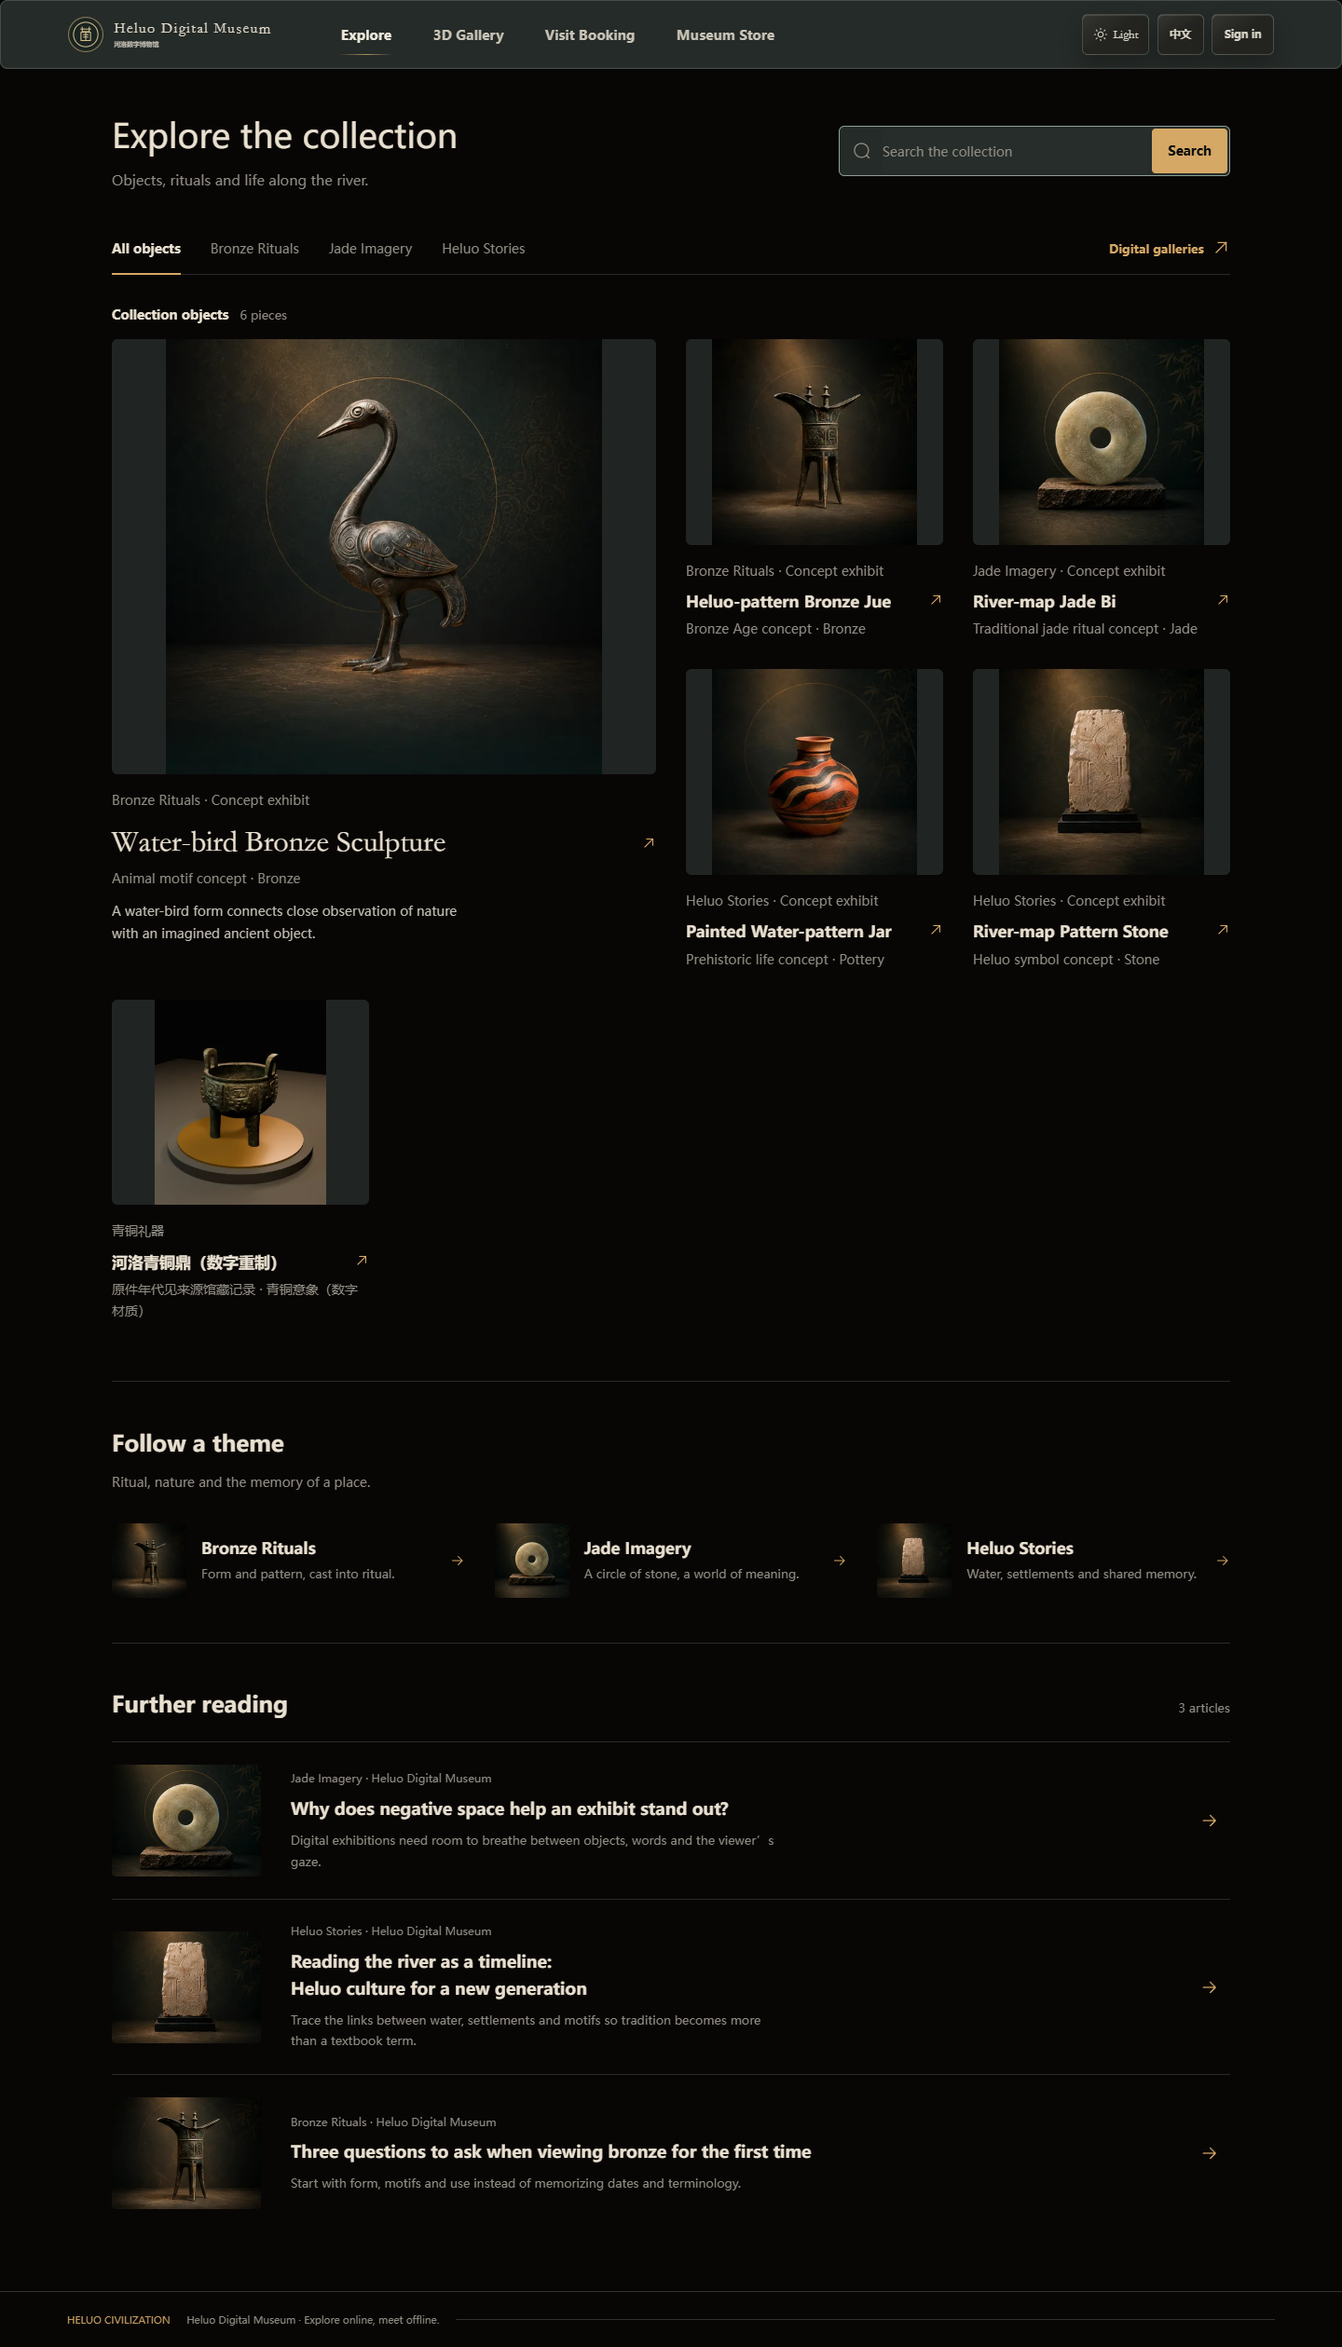
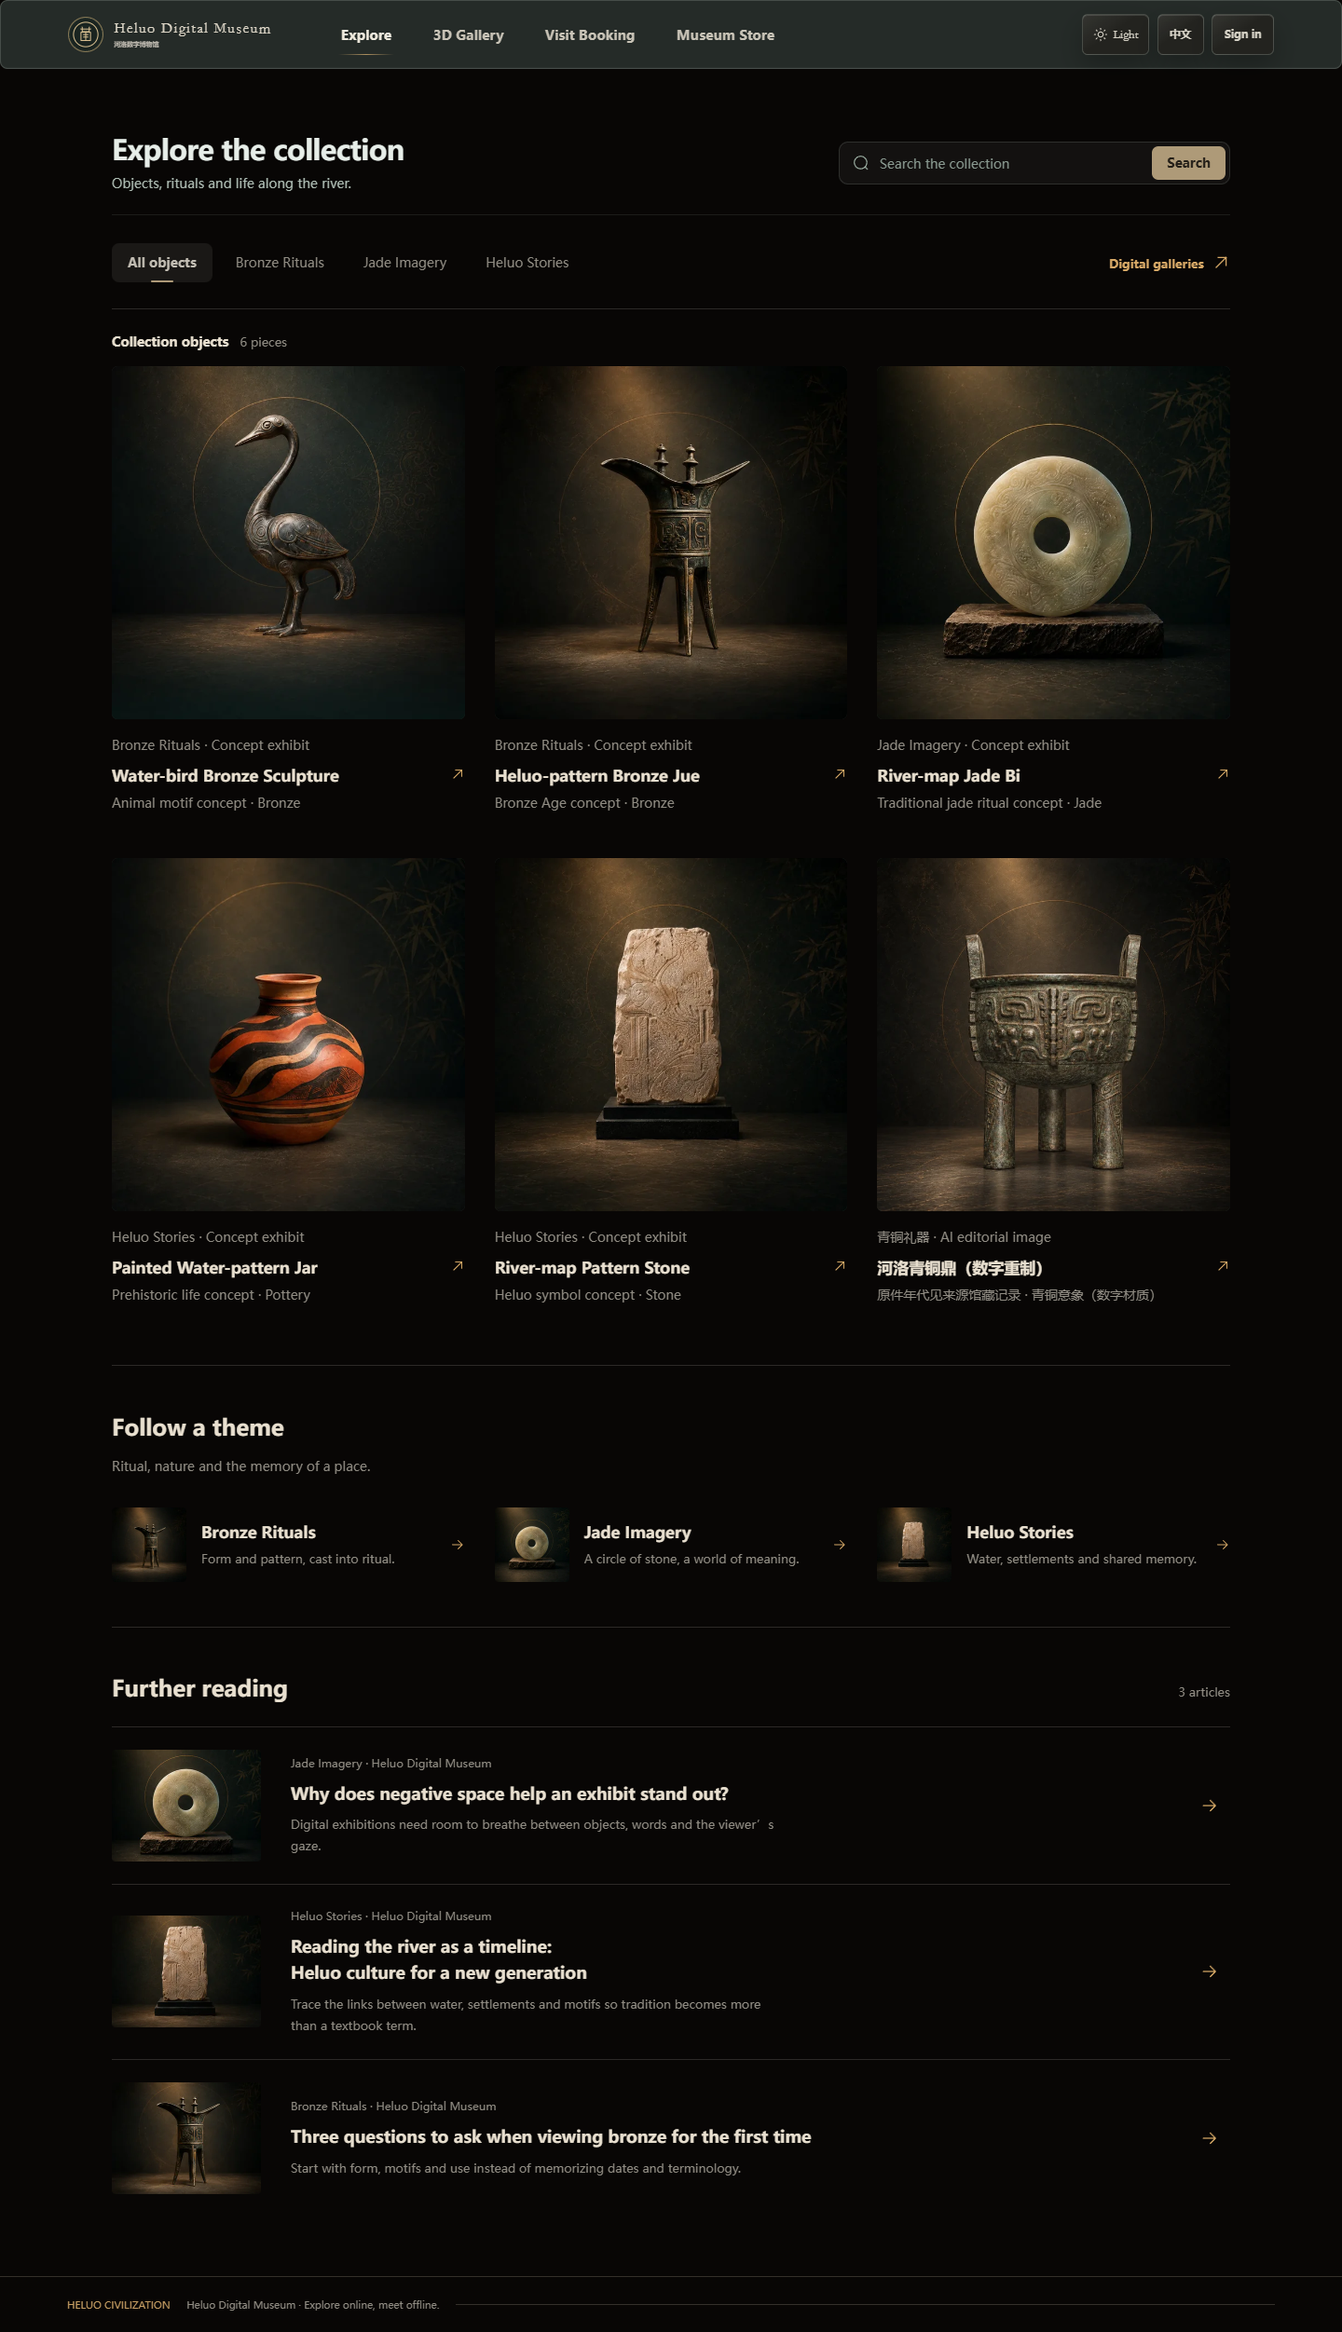
docs(showcase): refresh live dark theme and admin screenshots

diff --git a/README.md b/README.md
@@ -29,7 +29,13 @@
 
 ## 页面掠影
 
-以下为项目历史验收中保存的真实完整页面截图，覆盖主页、Explore 和 3D 展厅，非概念设计图，也非本次线上实时截图。统一采用 1440 像素桌面宽度，保留页面从顶部到末尾的内容；点击图片可查看原尺寸。线上内容可能随版本更新而变化。
+深色展馆中的暖金灯光，让器物成为视觉中心。以下图片于 **2026-09-27 从线上网站重新采集**，以深色与英文界面为主，保留中文浅色作为对照，并展示真实登录后的商城与后台工作台。采用 1440 / 1680 像素宽的完整桌面页面，已关闭平台反馈广告；点击图片查看原尺寸。[截图来源与采集说明](docs/showcase/SOURCES.md)。
+
+### One object, a living story · 英文深色首页
+
+[![英文深色首页完整页面：新版中央青铜鼎展廊、器物故事与策展入口](docs/showcase/home-dark-en.png)](docs/showcase/home-dark-en.png)
+
+### 同一座展馆，两种光线
 
 <table>
   <tr>
@@ -41,24 +47,59 @@
     <td width="50%"><a href="docs/showcase/home-dark-zh.png"><img src="docs/showcase/home-dark-zh.png" alt="中文深色首页完整页面：深色展馆、器物介绍与主题入口" /></a></td>
   </tr>
   <tr>
-    <td width="50%" align="center"><strong>首页 · 英文深色</strong></td>
-    <td width="50%" align="center"><strong>Explore · 英文深色</strong></td>
-  </tr>
-  <tr>
-    <td width="50%"><a href="docs/showcase/home-dark-en.png"><img src="docs/showcase/home-dark-en.png" alt="英文深色首页完整页面" /></a></td>
-    <td width="50%"><a href="docs/showcase/explore-dark-en.png"><img src="docs/showcase/explore-dark-en.png" alt="Explore 双语藏品浏览页" /></a></td>
-  </tr>
-  <tr>
-    <td align="center"><sub>主页 · One object, a living story</sub></td>
-    <td align="center"><sub>Explore · Search the collection</sub></td>
-  </tr>
-  <tr>
-    <td colspan="2"><a href="docs/showcase/digital-exhibit.png"><img src="docs/showcase/digital-exhibit.png" alt="河洛数字博物馆 3D 数字展厅" /></a></td>
-  </tr>
-  <tr>
-    <td colspan="2" align="center"><sub>3D Gallery · 旋转、缩放与多视角观察青铜器数字模型</sub></td>
+    <td colspan="2" align="center"><sub>中文浅色与深色 · 从顶部展廊到页尾的完整对照</sub></td>
   </tr>
 </table>
+
+### Explore · 英文深色馆藏
+
+从六件器物，到主题线索与延伸阅读，让浏览形成一条自然的发现路径。部分尚无译文的内容保留中文回退。
+
+[![英文深色 Explore 完整页面：馆藏、主题与延伸阅读](docs/showcase/explore-dark-en.png)](docs/showcase/explore-dark-en.png)
+
+### Museum Store · 英文深色文创商城
+
+把器物纹样带进日常：茶具、织物与文具，在统一的深色界面中呈现。
+
+[![英文深色文创商城完整页面：登录后的商品、购物袋与模拟结算](docs/showcase/shop-dark-en.png)](docs/showcase/shop-dark-en.png)
+
+### 3D Gallery · 让器物来到眼前
+
+真实加载的青铜鼎模型，配合多视角控件、器物来源与展项说明，呈现从浏览到近观的体验。
+
+[![英文深色 3D 展厅：已加载实体模型与完整控制面板](docs/showcase/digital-exhibit-dark-en.png)](docs/showcase/digital-exhibit-dark-en.png)
+
+<details>
+<summary>展开查看：英文深色展厅入口与预约完整页面</summary>
+
+[![英文深色数字展厅入口](docs/showcase/gallery-dark-en.png)](docs/showcase/gallery-dark-en.png)
+
+[![英文深色预约参观完整页面](docs/showcase/booking-dark-en.png)](docs/showcase/booking-dark-en.png)
+
+</details>
+
+### Behind the scenes · 后台管理工作台
+
+前台负责讲故事，后台负责让内容持续更新。以下为管理员登录后的线上实页，展示内容编辑、发布状态、商品库存与 3D 展项管理。后台当前以中文为主。
+
+<table>
+  <tr><td width="50%" align="center"><strong>内容管理 · 深色</strong></td><td width="50%" align="center"><strong>内容管理 · 浅色</strong></td></tr>
+  <tr>
+    <td><a href="docs/showcase/admin-content-dark-zh.png"><img src="docs/showcase/admin-content-dark-zh.png" alt="深色内容管理完整工作台" /></a></td>
+    <td><a href="docs/showcase/admin-content-light-zh.png"><img src="docs/showcase/admin-content-light-zh.png" alt="浅色内容管理完整工作台" /></a></td>
+  </tr>
+</table>
+
+**商品运营 · 深色**
+
+[![深色商品管理：统计、库存、创建表单与完整商品列表](docs/showcase/admin-products-dark-zh.png)](docs/showcase/admin-products-dark-zh.png)
+
+<details>
+<summary>展开查看：深色 3D 展项管理</summary>
+
+[![深色 3D 展项管理完整工作台](docs/showcase/admin-exhibits-dark-zh.png)](docs/showcase/admin-exhibits-dark-zh.png)
+
+</details>
 
 ## 当前实现
 

diff --git a/docs/showcase/SOURCES.md b/docs/showcase/SOURCES.md
@@ -1,0 +1,54 @@
+# README 截图来源
+
+采集日期：2026-09-27（北京时间，首页首批于 20:02 采集，登录页与后台随后补拍）。来源：[河洛数字博物馆线上站点](https://heluo.pocketbay.app/)。图片仅作为项目展示素材，不代表完整业务验收。
+
+| 文件 | 页面与模式 | 原始尺寸 |
+| --- | --- | --- |
+| home-dark-en.png | 首页 · 英文深色 | 1440 × 2312 |
+| home-dark-zh.png | 首页 · 中文深色 | 1440 × 2312 |
+| home-light-zh.png | 首页 · 中文浅色 | 1440 × 2312 |
+| explore-dark-en.png | Explore · 英文深色 | 1440 × 2503 |
+| shop-dark-en.png | 商城 · 英文深色、已登录 | 1680 × 1067 |
+| gallery-dark-en.png | 展厅入口 · 英文深色 | 1680 × 1183 |
+| digital-exhibit-dark-en.png | 3D 实体模型 · 英文深色 | 1680 × 1340 |
+| booking-dark-en.png | 预约 · 英文深色、已登录 | 1680 × 1494 |
+| admin-content-dark-zh.png | 内容管理 · 中文深色 | 1680 × 1725 |
+| admin-content-light-zh.png | 内容管理 · 中文浅色 | 1680 × 1728 |
+| admin-products-dark-zh.png | 商品管理 · 中文深色 | 1680 × 1061 |
+| admin-exhibits-dark-zh.png | 3D 展项管理 · 中文深色 | 1680 × 1061 |
+
+通过 Playwright / Edge 打开公开入口，再读取站点实际嵌入的 `https://heluo--e.pocketbay.app/` 页面。首页使用线上 `home-corridor-light-user-v2.webp` / `home-corridor-dark-user-v2.webp`；采集时主脚本为 `index-CRsUH_LY.js`。
+
+等待字体、图片和滚动加载完成，首页/Explore 在 1440 × 900 外层视口采集，其余为 1680 × 1100。长页面以重叠滚动截图无缩放拼接；后台和预约通过增高浏览器视口一次拍完整页，避免固定侧栏重复。保留完整内容，固定导航只出现一次；无 footer 的页面按实际内容边界验收。关闭平台反馈气泡，并在截图会话中隐藏残留的平台浮层，不修改网站部署或应用内容。英文界面中缺少译文的条目按网站实际情况保留中文。
+
+登录使用现有线上演示管理员，凭据只从 Git 忽略的配置中读取，令牌只保留在浏览器会话内存。商城沿用现有购物袋，未新增商品或提交订单；预约未提交，后台只切换展示模块。图片中的 `admin@example.test` 是演示占位邮箱，不展示用户、订单或日志明细。3D 截图已实际启动并观察到实体模型，不以封面代替。
+
+复现命令（需安装项目开发依赖及 Edge，PowerShell 拼接依赖 Windows System.Drawing）：
+
+```powershell
+node frontend/scripts/capture-readme-home.mjs
+powershell -NoProfile -ExecutionPolicy Bypass -File frontend/scripts/stitch-readme-home.ps1
+```
+
+补拍登录后的商城与后台：通过环境变量 `HELUO_CAPTURE_CREDENTIAL_FILE` 指向获授权的本地部署 properties 文件，再运行 `node frontend/scripts/capture-readme-home.mjs --authenticated`。补拍展厅及预约使用 `--authenticated --supplement`。最后重新运行拼接脚本。勿将凭据文件或令牌上传。
+
+原始分段与采集记录保存在被忽略的 `artifacts/readme-live-home/`，不作为发布素材提交。
+
+## SHA-256
+
+```text
+home-light-zh.png 58413741930409B079198119535BD08D96FA3B4633D53C0DE2DCCF51A87CE6DF
+home-dark-zh.png 7EBC90096ABD0C7BD255B61953BFB07C91CBA320D0D4A936C31E2F6A3C5FDBD4
+home-dark-en.png 87ECAF4BFA54C5EF5ED03C59A9D52CDE4B447EC7C710063E950E5C2CE894F13D
+explore-dark-en.png D9B833D3D876CF339071D5AC334DA9F470C3E88EF9E57CBEF2D517598937702A
+shop-dark-en.png FA37D5F1822D82AF1F3C414D3D56AFB36C57898306ADF29AE9BA8C99856D6914
+admin-content-dark-zh.png AB6B5AE79A402E6111EBB5C59E37B566AE867B368FEE010D92BE4273B5285EB0
+admin-content-light-zh.png 15D736FF606DA49B1F52FECE16DACF4655643C730B0166B83314DF6DE0EF543D
+admin-products-dark-zh.png E0D932C7A45CACB5A69180C0129AE7323CBA0019036758934873EE5D2DCCA619
+admin-exhibits-dark-zh.png 0EB0FBF16968555A3871FFE5483D79D29B6DDC4C4293CF4618FC28E2B26DEAAA
+gallery-dark-en.png A8C5A751D936ADA4AC21A1DB81B904B806C837E42710E97AF714E2DCB283814B
+digital-exhibit-dark-en.png 5C2A17ACA0B2A9AE9E39D5EC43C35F199C89E2AEF1C4D88188C55A4B0BF62C1F
+booking-dark-en.png 9DA1FEBD68E632EA603E08F67BB5EE74B78B3DC6C18C6CBE7BEFF78FEA27289B
+```
+
+`digital-exhibit.png` 为此前已入库的历史版本 3D 展厅图，保留文件但不再由 README 引用。器物素材来源及授权继续以项目资产台账与展项说明为准。

diff --git a/docs/plans/2026-09-27-live-home-showcase.md b/docs/plans/2026-09-27-live-home-showcase.md
@@ -1,0 +1,29 @@
+# 当前线上首页截图修正
+
+## 目标与范围
+
+关联 F-01 展示文档：替换 README 中过期的三张首页图片，以当前线上站点为准。按追加要求，以深色英文为重点，补齐登录商城、数字展厅、实际3D模型、预约和后台内容/商品/展项工作台，共12张完整桌面截图。不变更产品页面、部署或业务验收状态。
+
+## 步骤
+
+1. 经用户明确同意，使用 Playwright 独立浏览器访问公开站点，必要时通过正常入口唤醒。
+2. 从实际 iframe 地址读取当前页面；固定桌面视口，等待字体、图片、滚动触发内容就绪后拍摄完整长图。
+3. 核对主题、语言、完整页尾和图片加载，保存采集时间、页面资源与图片散列。
+4. 仅替换展示图片、来源说明和本任务脚本文档，提交推送现有分支。
+
+## 风险与验收
+
+- 不使用历史截图或本地未发布页面代替线上效果；不提交个人数据、会话与配置。
+- 工作区已有其他任务修改，尤其项目状态和需求追踪表：仅追加本任务说明，不将其他修改带入提交。
+- 只读公开页面，不创建预约、订单或用户，不部署。
+- 验证结果在截图完成后补充；不以文档更新声称业务测试通过。
+
+## 验证结果
+
+- 2026-09-27 最终12张线上截图采集通过，主题/语言符合设定、图片全部加载、无横向溢出、页面异常为零，平台广告不可见断言通过。
+- 所有最终图片逐张视觉检查：新版中央青铜鼎展廊正确，首页及 Explore 页尾完整。商城登录后沿用现有购物袋，增加视口高度以完整显示三种商品和模拟结算。后台与预约改用增高视口单帧截图，消除初版滚动拼接的侧栏重复；无 footer 页面按实际全高验收。
+- 3D 已启动并观察到实体模型及可用控件；用户上传的六张视口图片用作选景参考，最终使用重新拍摄的完整页面，不直接上传被截断、有白边或平台标记的附件。
+- 后台选择内容深浅、深色商品、深色3D展项四页，未截图用户/订单/操作日志明细。凭据来自忽略的线上部署配置，不输出或提交；未提交预约、订单、支付或后台表单。
+- 初次后台等待选择器与商城 footer 假设不匹配、一次登录 HTTP 525 均在最终重拍中解决。凭据失败时不猜测账号密码。
+- 图片尺寸与 SHA-256 见 `docs/showcase/SOURCES.md`；README 原历史 3D 图改用当前已启动模型的截图。
+- 本轮只涉及文档、截图及采集辅助脚本，不运行前后端业务测试、构建、生产写入或全设备验收，不提升业务需求验收状态。

diff --git a/PROJECT_STATUS.md b/PROJECT_STATUS.md
@@ -1,5 +1,7 @@
 # 项目状态
 
+- 2026-09-27 README 线上截图更新：12张当前线上完整桌面截图已逐张核对，覆盖三种首页、英文深色馆藏/登录商城/展厅/实际3D模型/预约，以及内容后台双主题、深色商品和展项管理；关闭平台广告，解决固定侧栏拼接重复，旧3D图不再引用。仅展示文档和采集脚本更新，未提交业务数据或部署，不提升业务验收；详见 `docs/plans/2026-09-27-live-home-showcase.md`。
+
 - 2026-09-18 展示图补充：首页增加中文浅色、中文深色两张1440×2544完整截图，与已有英文深色首页、Explore、3D展厅合计五图；README 增加主题与语言标注。仅历史验收素材展示，业务和生产验收状态不变。
 
 - 2026-09-18 仓库展示文档：README 新增线上入口、项目介绍与三张1440像素宽的完整桌面页面截图（历史验收素材，非本次线上实时截图）；只调整展示文档和素材，不改变业务或生产验收结论。详见 `docs/plans/2026-09-18-repository-showcase.md`。

diff --git a/docs/01-requirements-traceability.md b/docs/01-requirements-traceability.md
@@ -1,5 +1,7 @@
 # 需求追踪表
 
+- 2026-09-27 F-01 展示文档补正：README 展示12张线上实页，包含首页三模式、英文深色馆藏/登录商城/展厅/实际3D模型/预约及四张后台工作台；主题/语言/图片加载/页面边界/广告清除检查和逐张视觉复核通过。仅更新展示证据，不改变业务或生产验收状态。见 `docs/plans/2026-09-27-live-home-showcase.md`。
+
 2026-09-18 F-01 展示补充：README 首页三种外观（中文浅色、中文深色、英文深色）均提供完整页面原图。仅文档展示，不新增功能或提升生产验收结论。
 
 2026-09-18 仓库展示增量：README 补充线上地址和首页、Explore、3D 展厅完整页面展示，关联 F-01/F-02/F-05 的展示说明。使用历史验收截图，不增加功能或提高生产验收状态。
